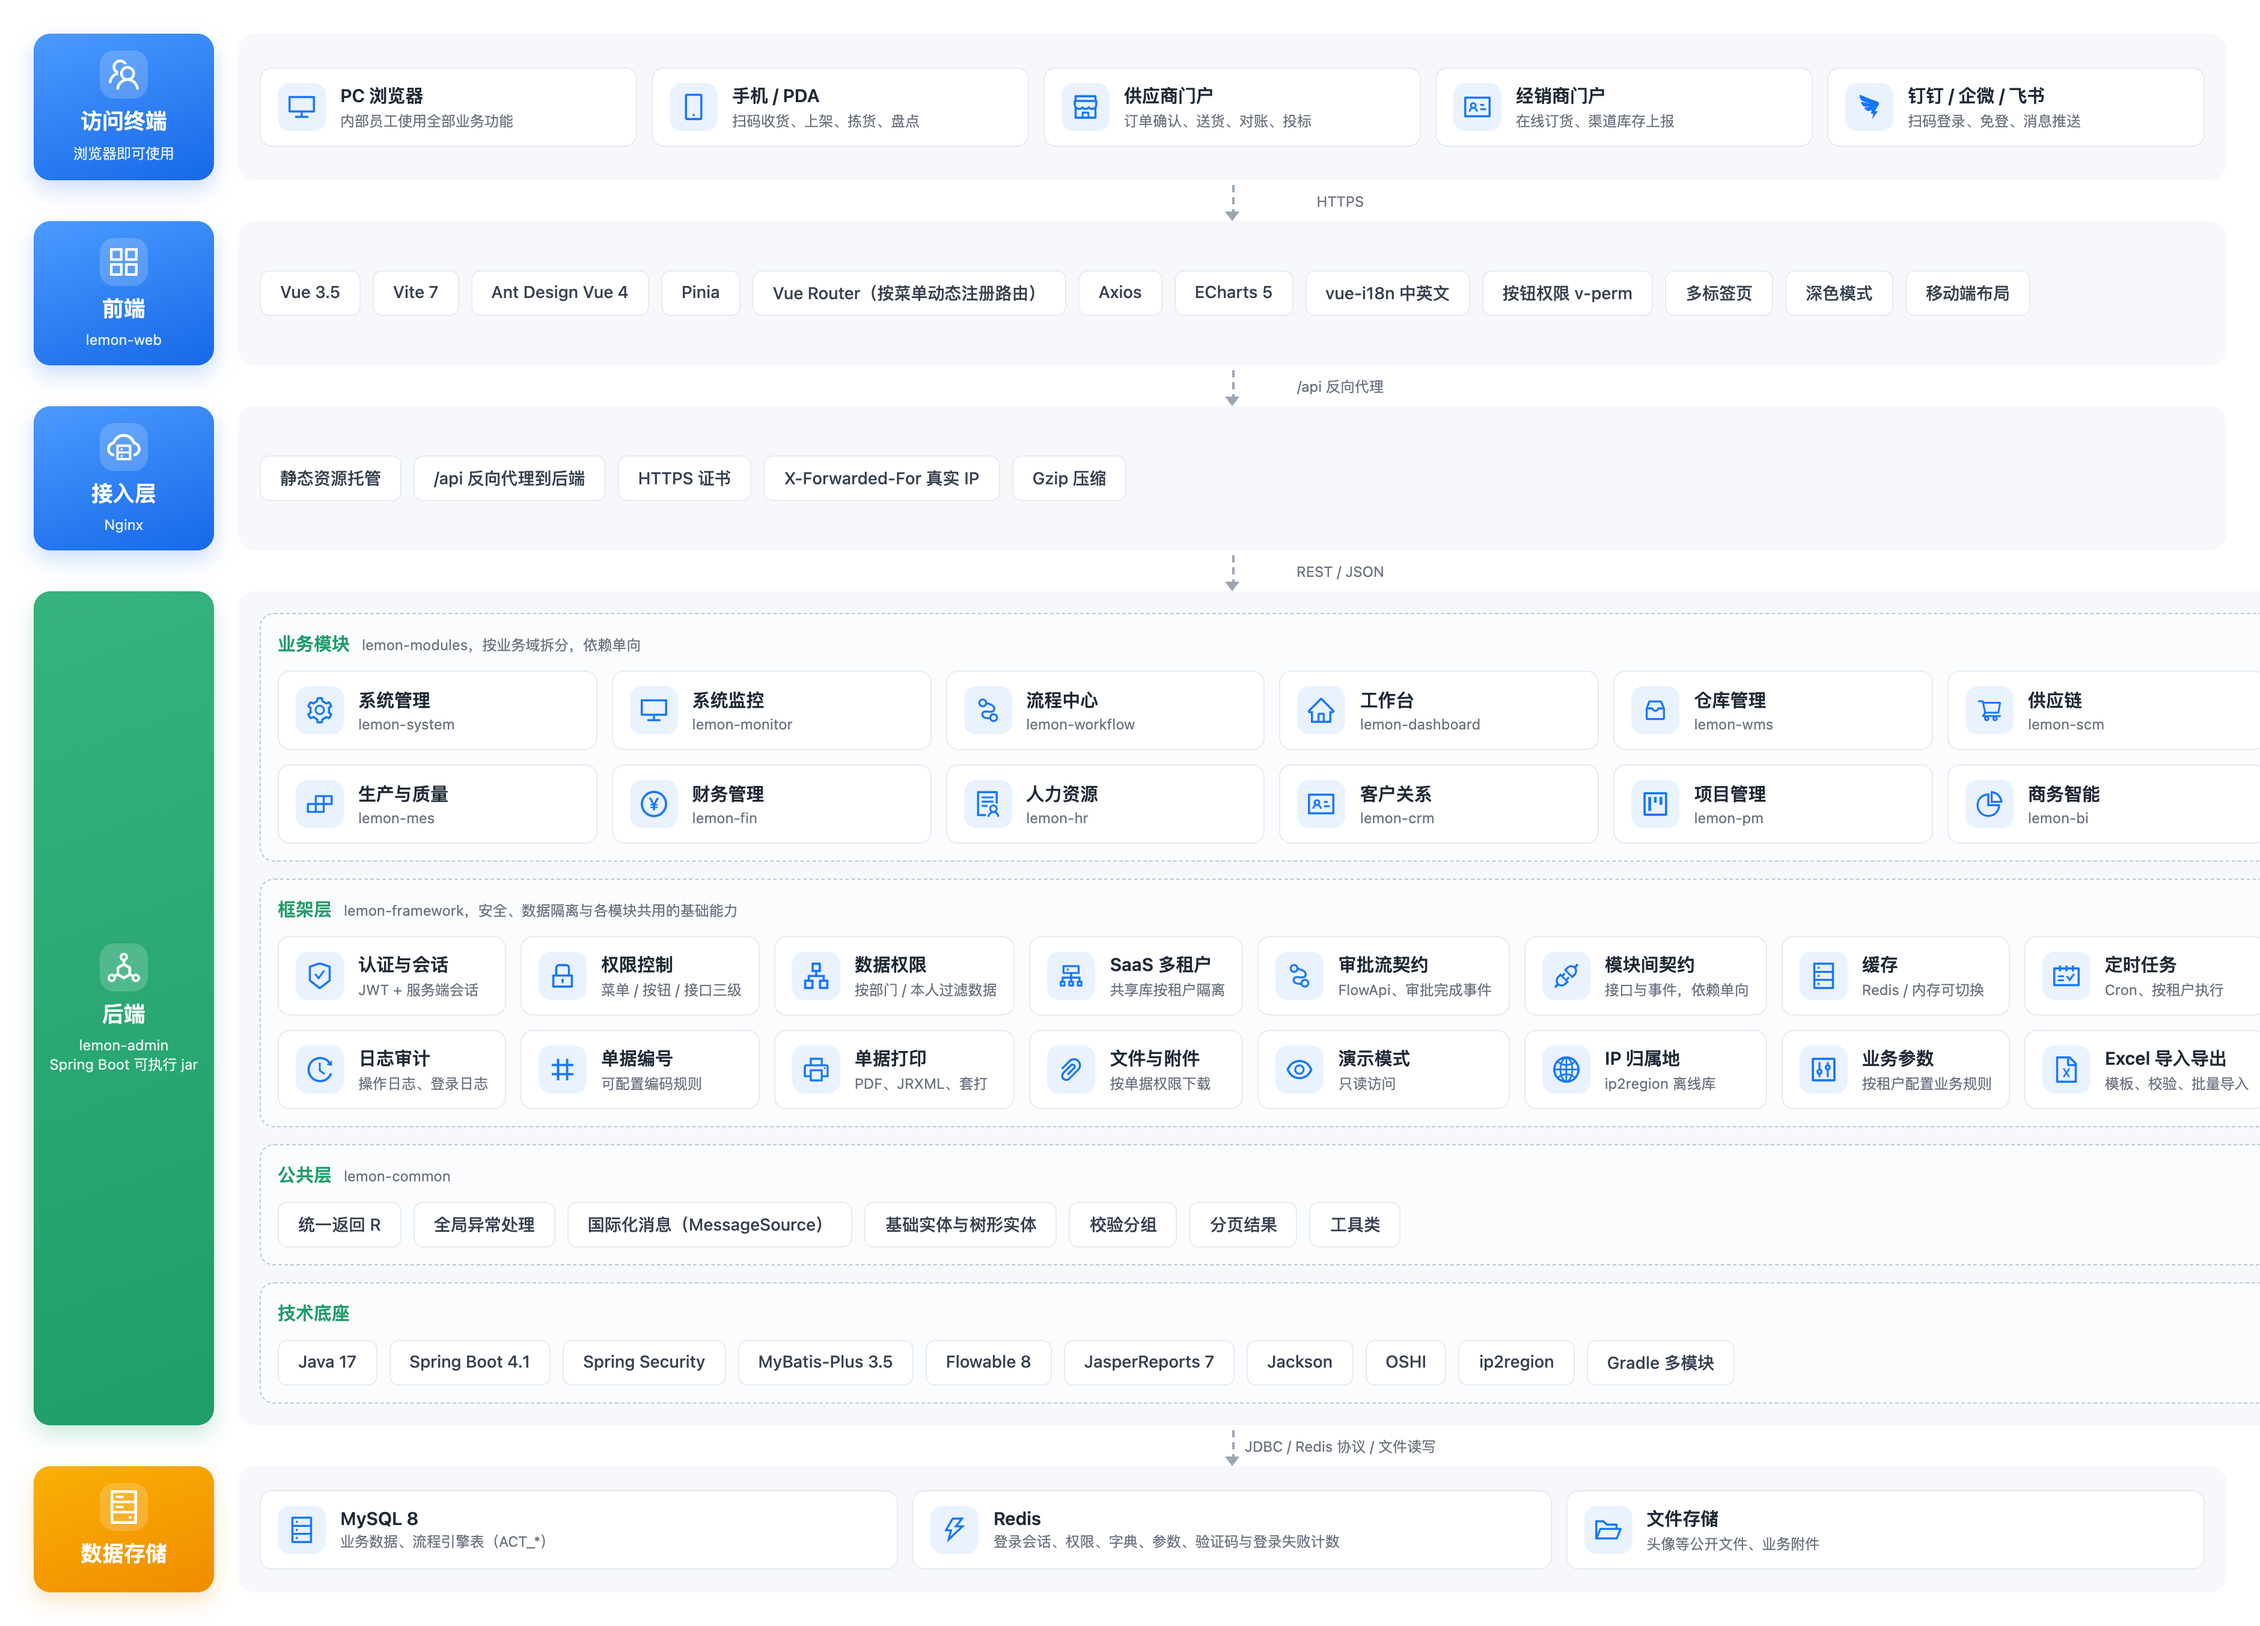
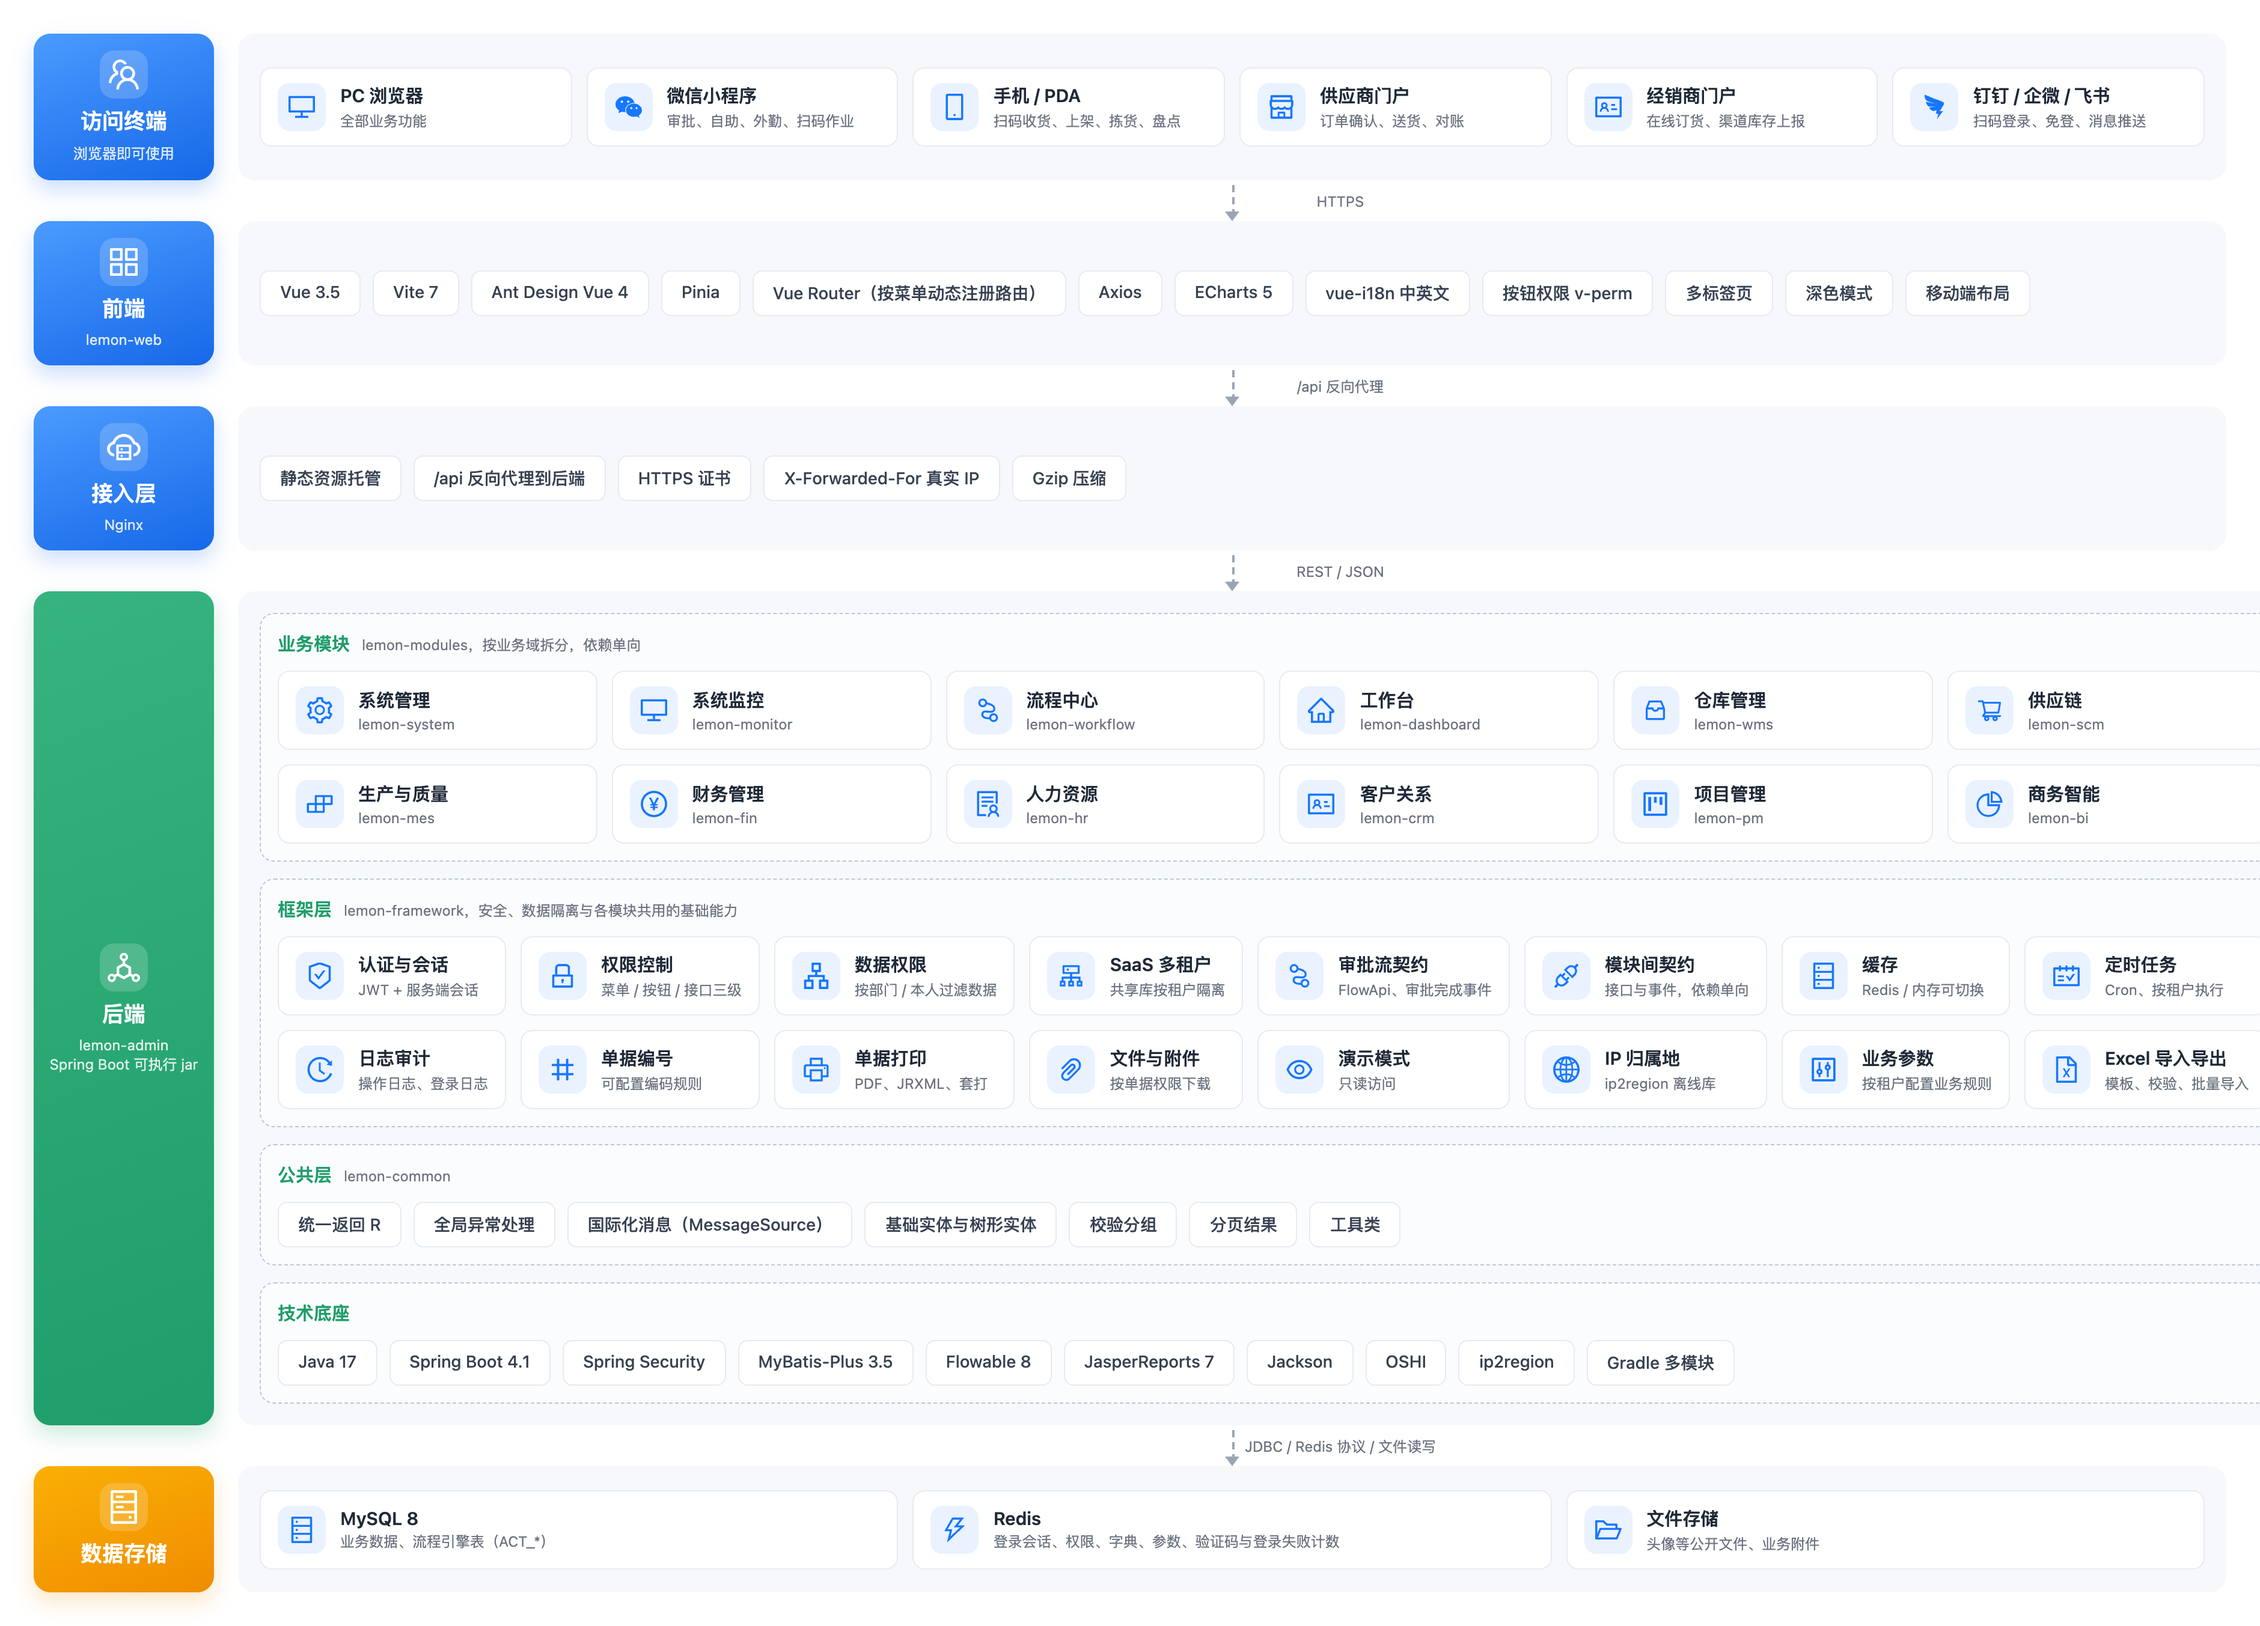
docs: README 增加微信小程序截图，技术架构图增加小程序

diff --git a/README.md b/README.md
@@ -437,6 +437,12 @@
 
 ![自定义仪表盘](docs/screenshots/bi-board.jpg)
 
+### 微信小程序
+
+**工作台、审批、打卡、库存查询、客户**
+
+![微信小程序](docs/screenshots/miniapp.jpg)
+
 ### 数据大屏
 
 **生产车间**
